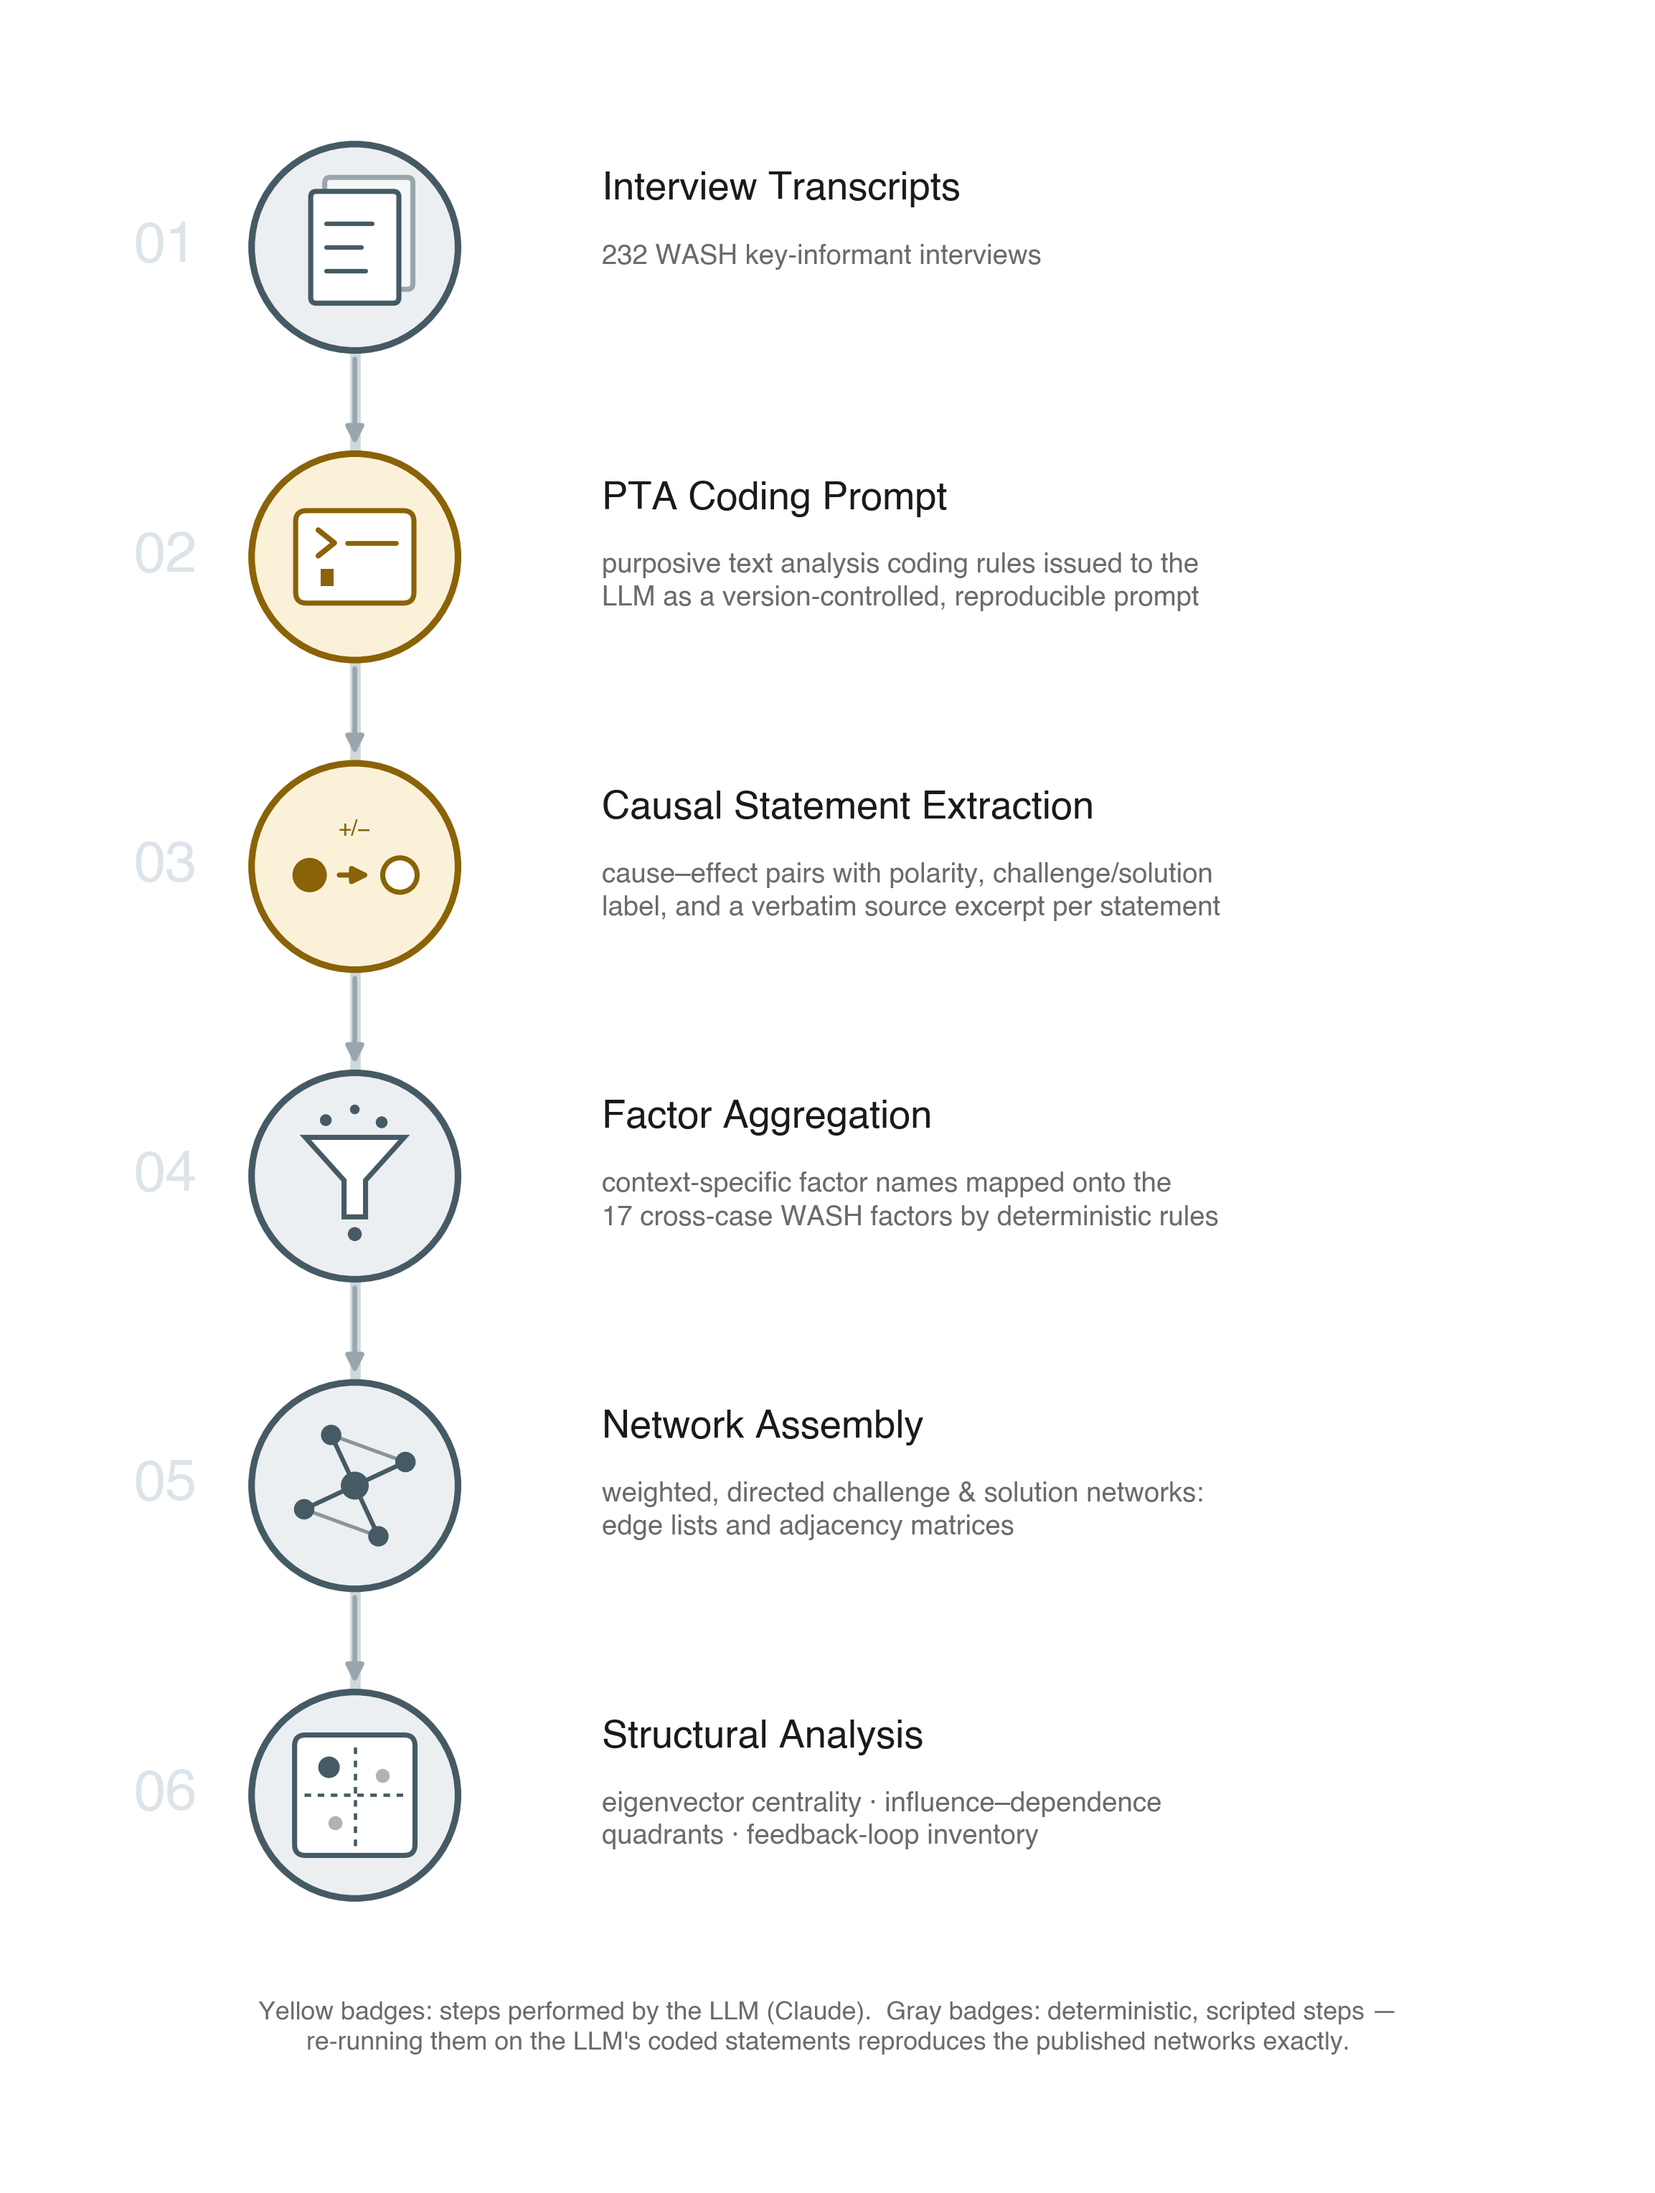
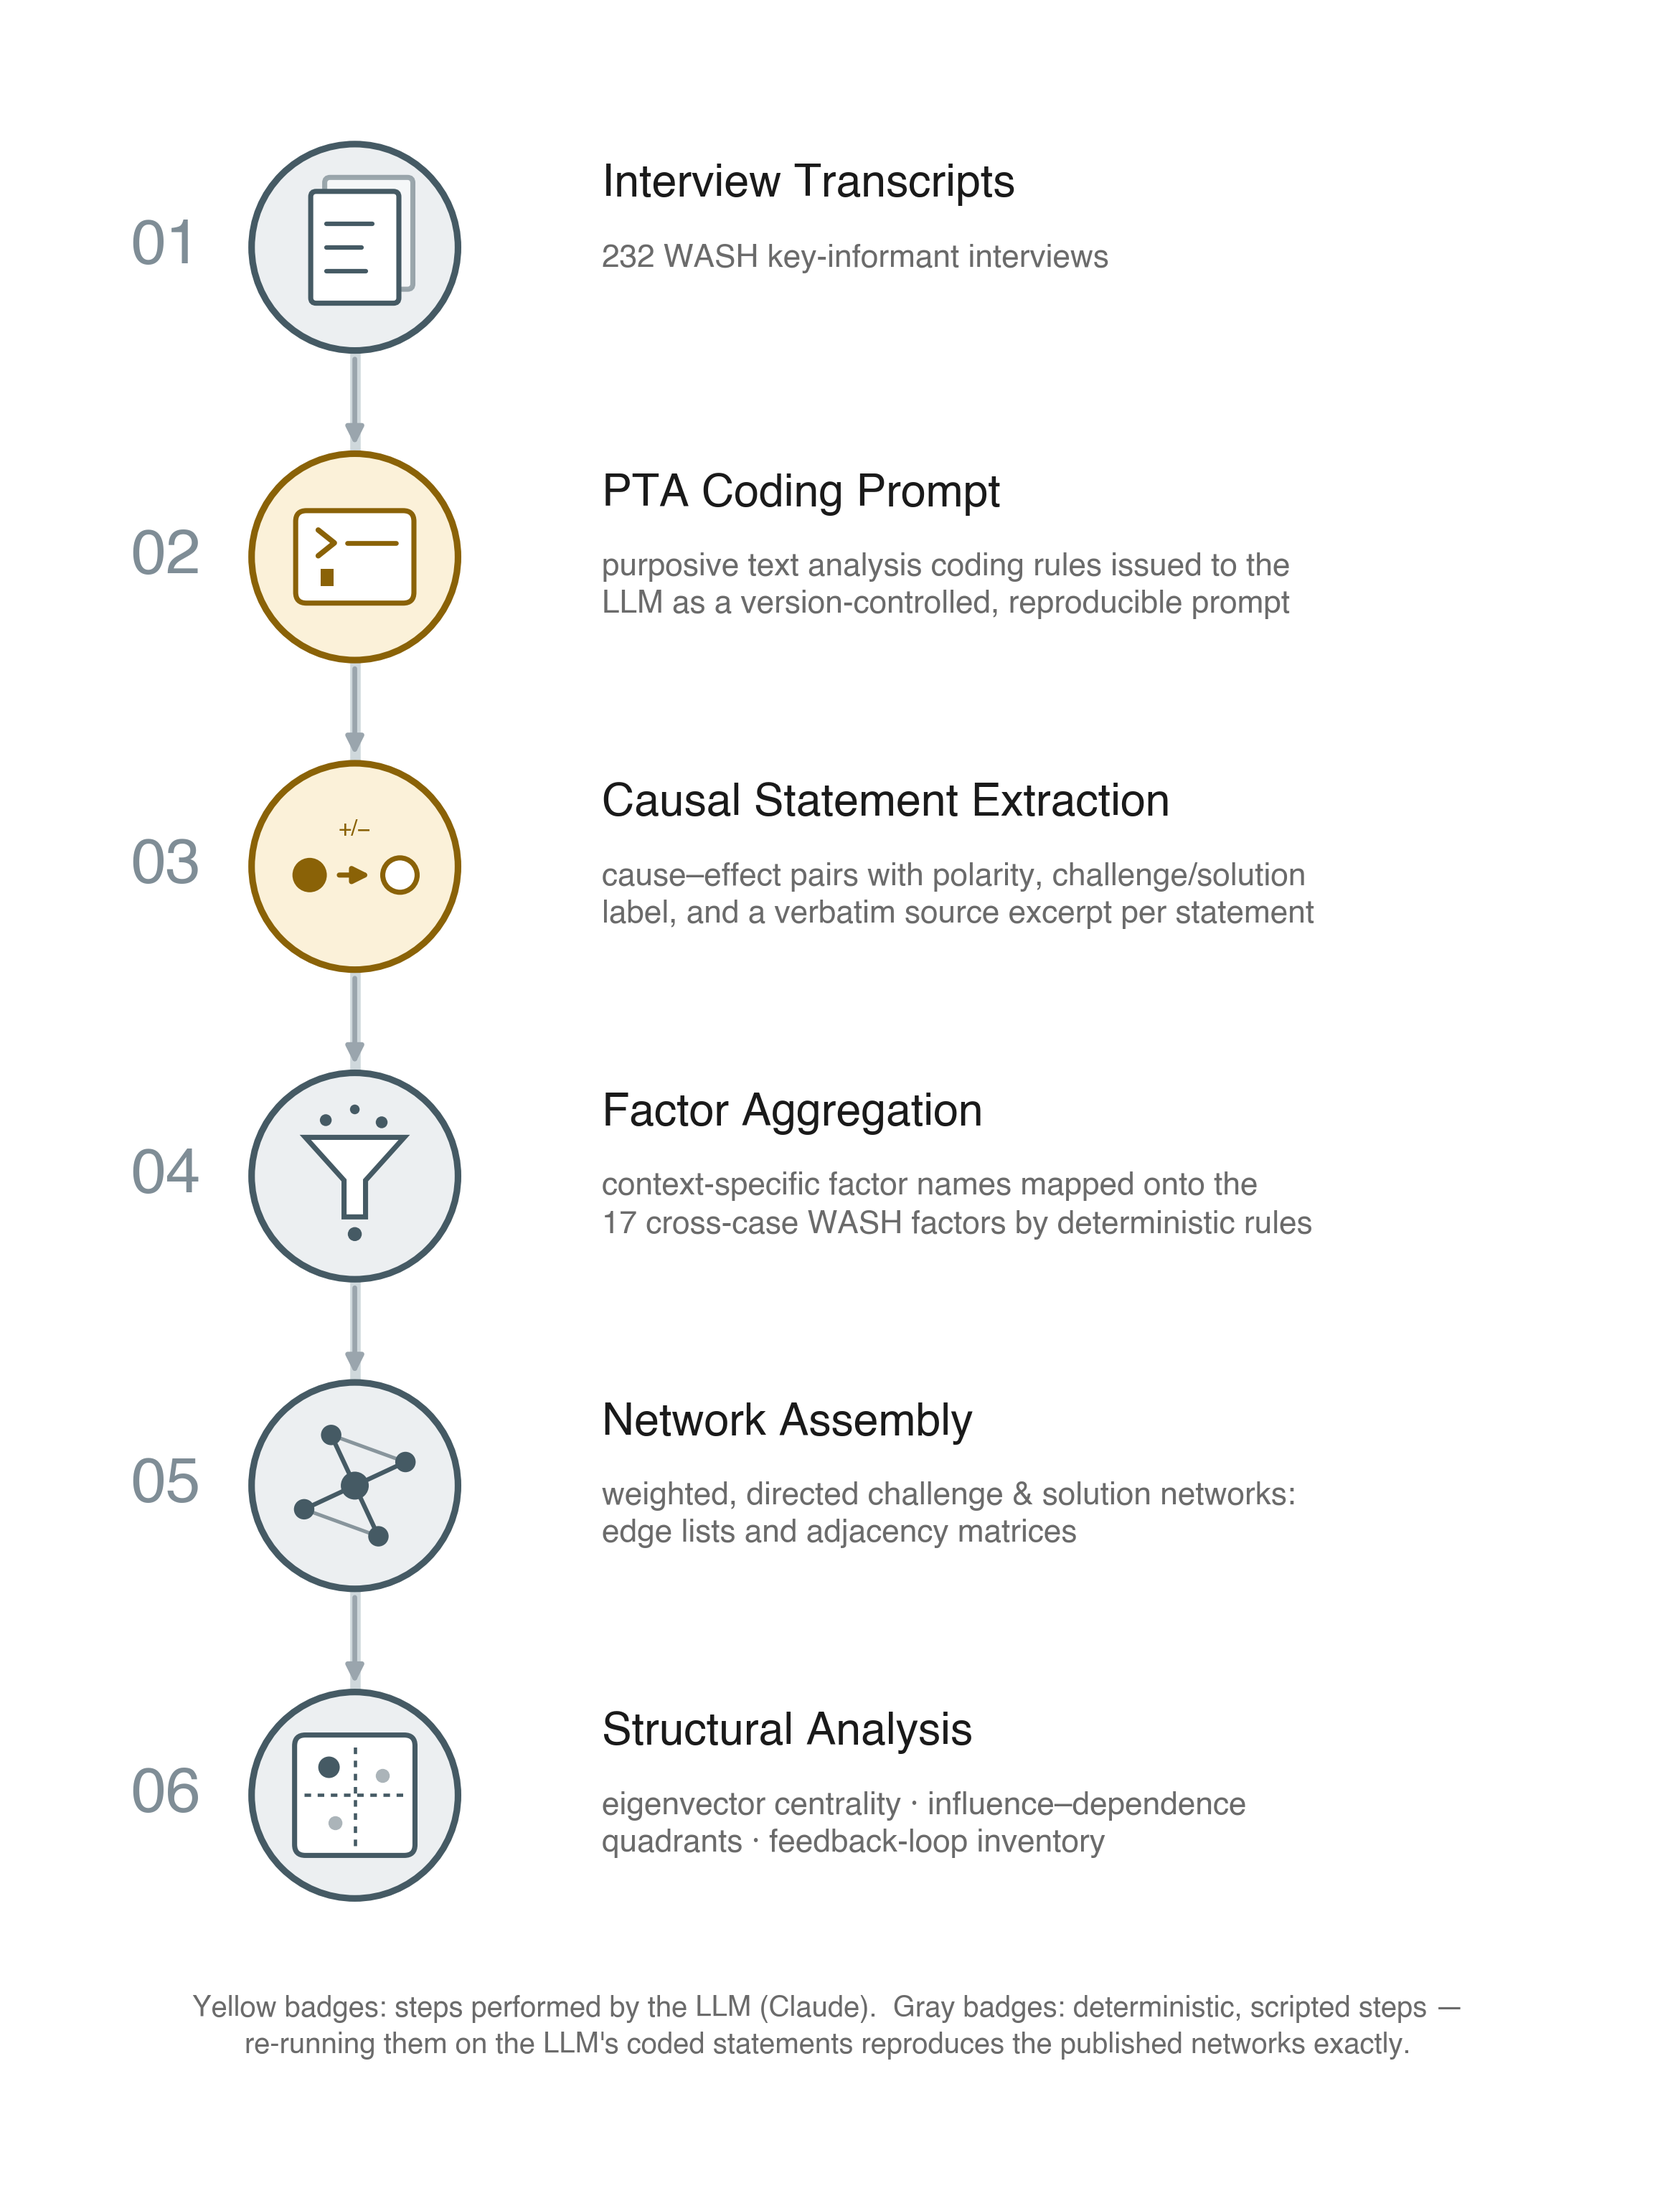
figure1b: darker numbers, larger fonts (mirrors working repo)

diff --git a/figures/make_figure1b_llm_workflow.py b/figures/make_figure1b_llm_workflow.py
@@ -104,13 +104,13 @@ def build():
 
     for i, (title, sub, ring, tint, icon) in enumerate(STEPS_1B):
         y = ys[i]
-        ax.text(0.52, y, f"0{i + 1}", fontsize=19, fontweight="bold",
-                color="#dde4e9", ha="center", va="center", zorder=2)
+        ax.text(0.52, y, f"0{i + 1}", fontsize=21, fontweight="bold",
+                color="#7f8d96", ha="center", va="center", zorder=2)
         badge(ax, sx, y, 0.48, ring, tint)
         icon(ax, sx, y, 0.50, ring)
-        ax.text(2.55, y + 0.27, title, fontsize=13, fontweight="bold",
+        ax.text(2.55, y + 0.29, title, fontsize=15, fontweight="bold",
                 color=INK, ha="left", va="center", zorder=6)
-        ax.text(2.55, y + 0.02, sub, fontsize=9.2, color=MUTED,
+        ax.text(2.55, y + 0.02, sub, fontsize=10.6, color=MUTED,
                 ha="left", va="top", linespacing=1.35, zorder=6)
 
     for y0, y1 in zip(ys[:-1], ys[1:]):
@@ -121,7 +121,7 @@ def build():
             "badges: deterministic, scripted steps —\n"
             "re-running them on the LLM's coded statements reproduces the "
             "published networks exactly.",
-            fontsize=8.6, color=MUTED, ha="center", va="center",
+            fontsize=9.6, color=MUTED, ha="center", va="center",
             linespacing=1.4, zorder=6)
 
     save(fig, "figure1b_llm_workflow")
